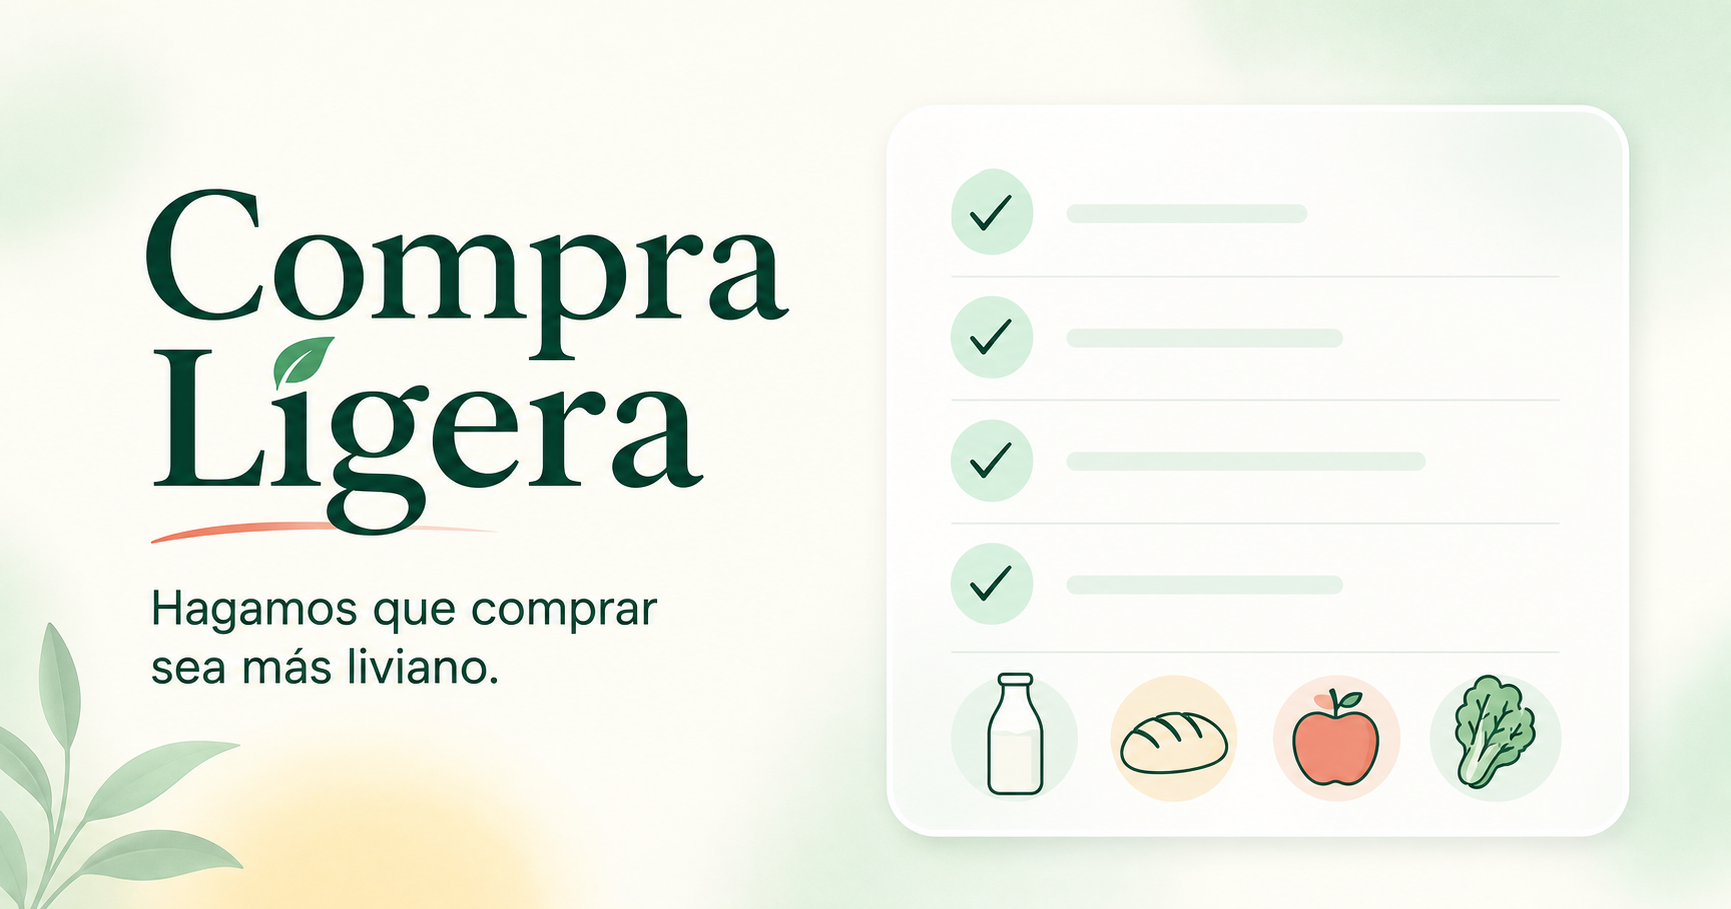
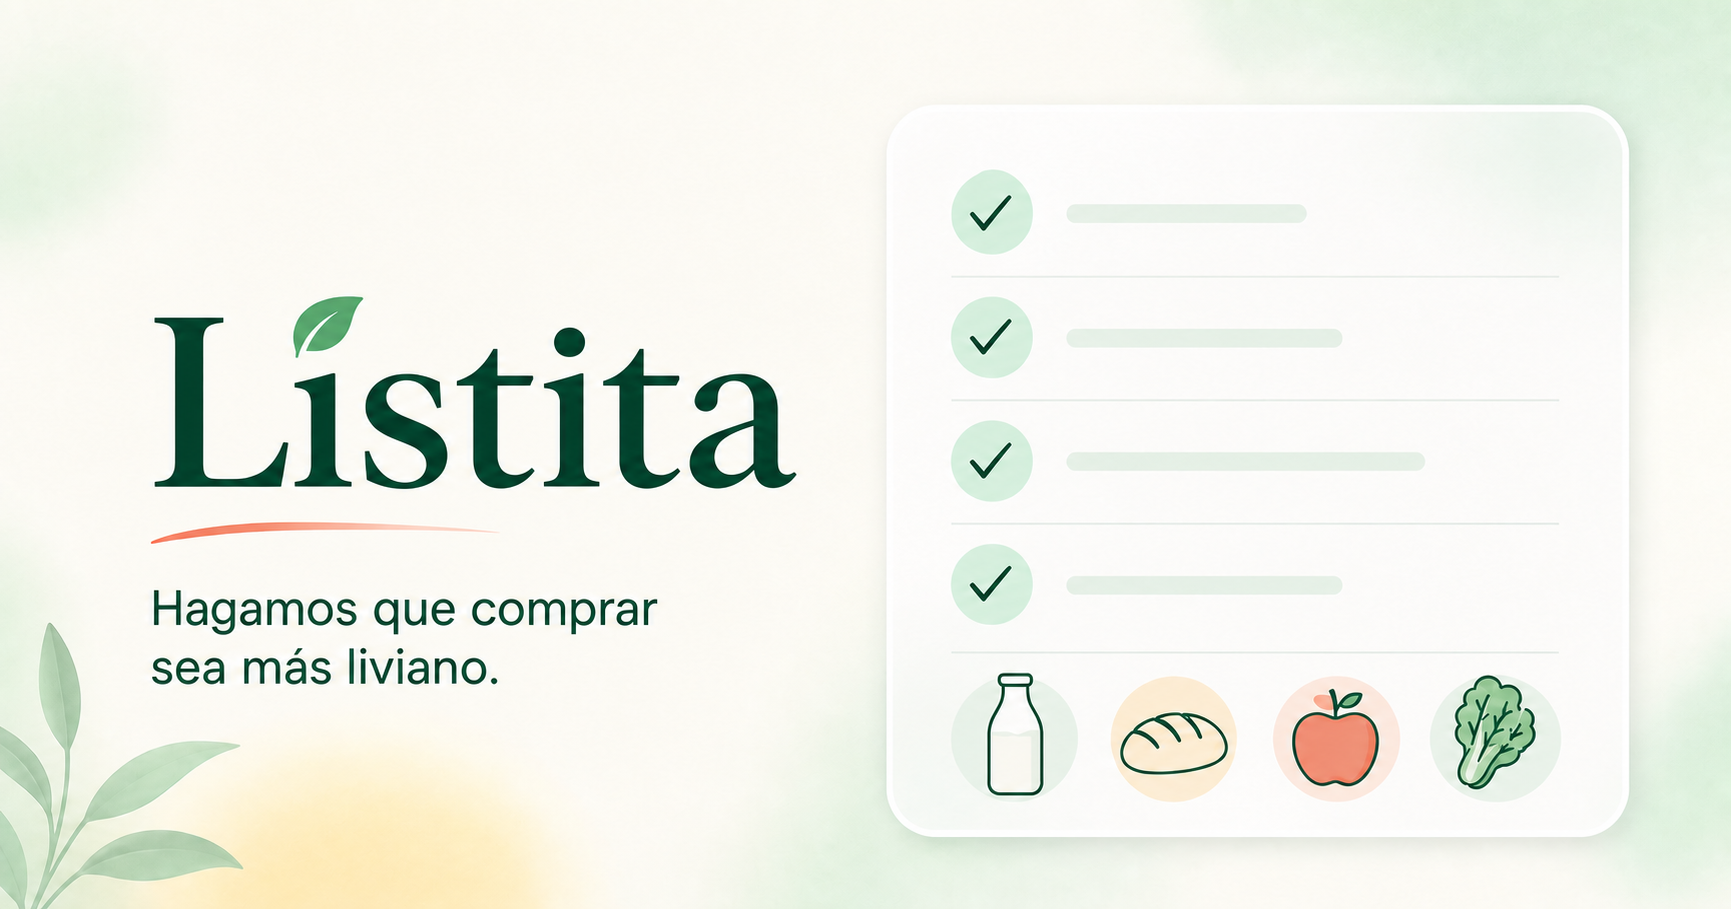
chore(brand): rename app to Listita

diff --git a/app/layout.tsx b/app/layout.tsx
@@ -14,12 +14,12 @@ export async function generateMetadata(): Promise<Metadata> {
 
   return {
     metadataBase: host ? new URL(`${protocol}://${host}`) : undefined,
-    title: "Compra Ligera · Lista de compras",
+    title: "Listita · Lista de compras",
     description: "Una lista de compras simple, amable y persistente.",
     appleWebApp: {
       capable: true,
       statusBarStyle: "default",
-      title: "Compra Ligera",
+      title: "Listita",
     },
     icons: {
       apple: [{ sizes: "180x180", url: "/apple-icon" }],
@@ -27,13 +27,13 @@ export async function generateMetadata(): Promise<Metadata> {
     },
     manifest: "/manifest.webmanifest",
     openGraph: {
-      title: "Compra Ligera",
+      title: "Listita",
       description: "Hagamos que comprar sea más liviano.",
-      images: [{ url: "/og.png", width: 1731, height: 909, alt: "Compra Ligera" }],
+      images: [{ url: "/og.png", width: 1731, height: 909, alt: "Listita" }],
     },
     twitter: {
       card: "summary_large_image",
-      title: "Compra Ligera",
+      title: "Listita",
       description: "Hagamos que comprar sea más liviano.",
       images: ["/og.png"],
     },

diff --git a/app/manifest.ts b/app/manifest.ts
@@ -25,8 +25,8 @@ export default function manifest(): MetadataRoute.Manifest {
       },
     ],
     lang: "es-AR",
-    name: "Compra Ligera · Lista de compras",
-    short_name: "Compra Ligera",
+    name: "Listita · Lista de compras",
+    short_name: "Listita",
     start_url: "/",
     theme_color: "#177b5f",
   };

diff --git a/components/auth-form.tsx b/components/auth-form.tsx
@@ -54,7 +54,7 @@ export function AuthForm({ mode }: AuthFormProps) {
           <span className="auth-brand__icon">
             <ShoppingBasket aria-hidden="true" size={23} strokeWidth={2.2} />
           </span>
-          <span>Compra Ligera</span>
+          <span>Listita</span>
         </div>
 
         <div className="auth-card__heading">

diff --git a/components/offline-entry.tsx b/components/offline-entry.tsx
@@ -17,7 +17,7 @@ export function OfflineEntry() {
     return (
       <main className="offline-loading">
         <h1>Necesitás Internet una primera vez</h1>
-        <p>Abrí Compra Ligera con conexión para dejar tu lista disponible sin señal.</p>
+        <p>Abrí Listita con conexión para dejar tu lista disponible sin señal.</p>
       </main>
     );
   }

diff --git a/README.md b/README.md
@@ -1,4 +1,4 @@
-# Compra Ligera
+# Listita
 
 Una lista de compras mínima y agradable de usar, pensada primero para móvil y ampliada para escritorio. Los productos se guardan en SQLite, por lo que sobreviven reinicios del navegador y del contenedor.
 
@@ -24,7 +24,7 @@ Por defecto, la base se crea en `data/shopping.db`.
 
 ## Usar sin señal
 
-1. Con Internet, abrí la lista e instalala desde Chrome para Android con **Instalar aplicación** o **Agregar a pantalla de inicio**.
+1. Con Internet, abrí Listita e instalala desde Chrome para Android con **Instalar aplicación** o **Agregar a pantalla de inicio**.
 2. Después de esa primera carga, podés abrirla sin señal, agregar, completar, restaurar, eliminar productos o finalizar una compra.
 3. El aviso debajo del título muestra si hay cambios pendientes. Se sincronizan al reconectar, volver a abrir la app o traerla de nuevo al frente.
 